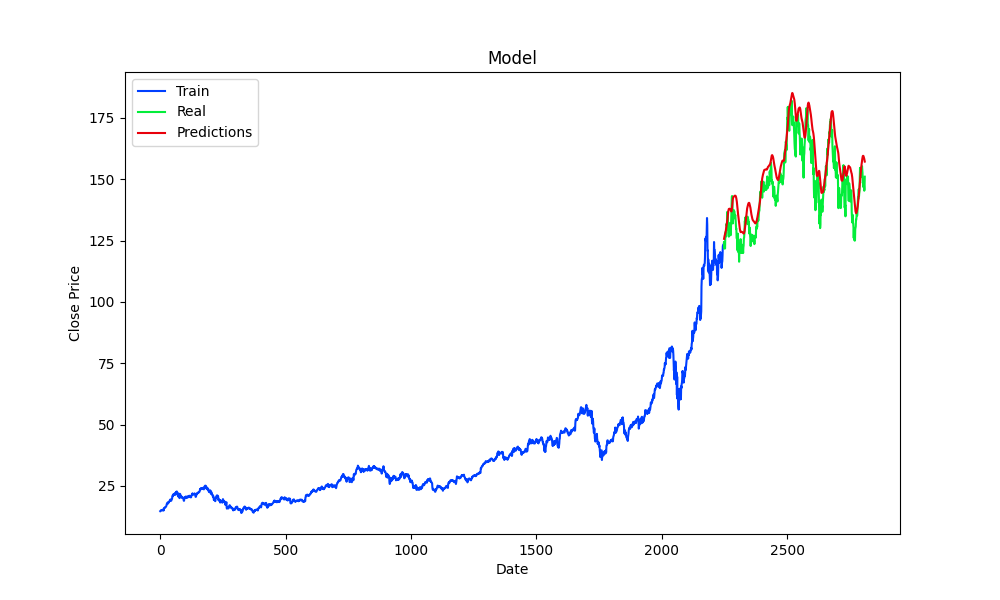
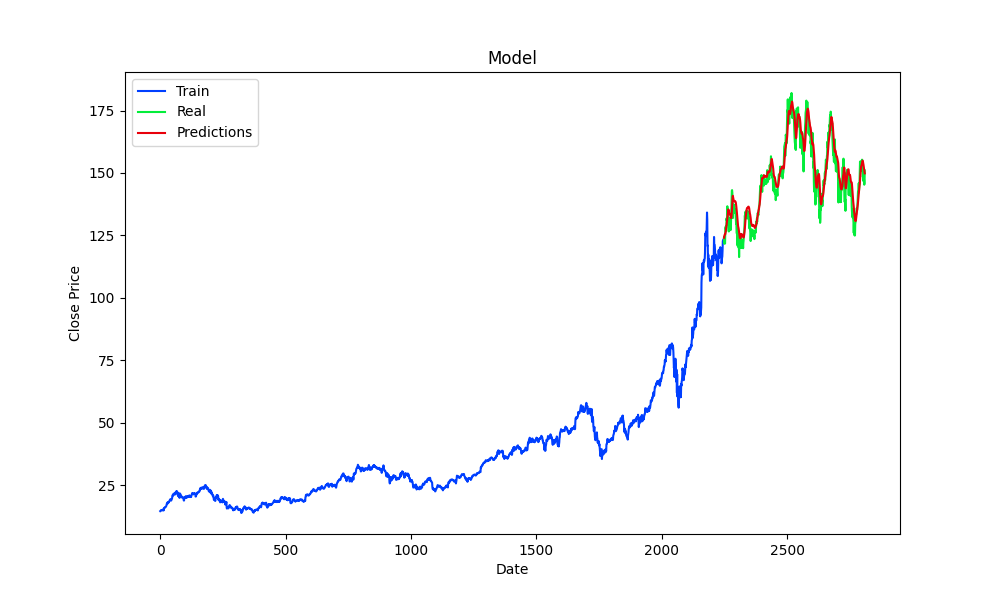
last push from matt

diff --git a/predict.py b/predict.py
@@ -20,8 +20,6 @@ import os.path
 import absl.logging
 
 
-
-
 def prediction(ticker, useOldModel=False):
     currtime = datetime.now().strftime('%Y-%m-%d')
     df = None
@@ -57,7 +55,10 @@ def prediction(ticker, useOldModel=False):
     days = 60
 
     scaler = MinMaxScaler(feature_range=(0, 1))
-    scaled_data = scaler.fit_transform(dataset)
+
+    scaled_data = scaler.fit_transform(dataset, dataset.shape)
+    print(dataset)
+    print(scaled_data)
 
     # Checks if a model is saved
     if useOldModel and os.path.isfile(f"data/{ticker}/saved_model.pb"):
@@ -81,18 +82,17 @@ def prediction(ticker, useOldModel=False):
         x_train = np.reshape(x_train, (x_train.shape[0], x_train.shape[1], 1))
 
         model = Sequential([
-            LSTM(50, return_sequences =True, input_shape = (x_train.shape[1],1)),
-            LSTM(50, return_sequences = False),
+            LSTM(50, return_sequences=True, input_shape=(x_train.shape[1], 1)),
+            LSTM(50, return_sequences=False),
             Dense(25),
             Dense(1)
         ])
 
         # compile
-        model.compile(optimizer='adamax', loss='mse')
+        model.compile(optimizer='adam', loss='mse')
 
         # fit using x,y,every piece of data,only 1 run
         model.fit(x_train, y_train, batch_size=1, epochs=1)
-
 
     test = scaled_data[train_len - days:, :]
 
@@ -110,12 +110,13 @@ def prediction(ticker, useOldModel=False):
 
     # Get the models predicted price values
     predictions = model.predict(x_test)
+
     predictions = scaler.inverse_transform(predictions)
 
     # Get the root mean squared error (RMSE)
     rmse = np.sqrt(np.mean(predictions - y_test)**2)
     rmse
-    print("RMSE:",rmse)
+    print("RMSE:", rmse)
 
     # get data we didnt touch
     valid = data[train_len:]
@@ -123,7 +124,6 @@ def prediction(ticker, useOldModel=False):
     train = data[:train_len]
     valid['Predictions'] = predictions
 
-    #print(model.summary())
     return train, valid, predictions, ticker, model
 
 
@@ -145,7 +145,6 @@ def main():
     pd.options.mode.chained_assignment = None
     absl.logging.set_verbosity(absl.logging.ERROR)
 
-
     train, valid, predictions, ticker, model = prediction('AAPL', True)
 
     # make sure good start
@@ -154,8 +153,8 @@ def main():
     pred = x["Predictions"].values
     print("Real / Pred:", real/pred)
 
-    while real/pred > 1.02 or real/pred < 0.98:
-        train, valid, predictions, ticker, model= prediction('AAPL')
+    while (real/pred) > 1.02 or (real/pred) < 0.98:
+        train, valid, predictions, ticker, model = prediction('AAPL')
         x = valid.head(1)
         real = x["Close"].values
         pred = x["Predictions"].values
